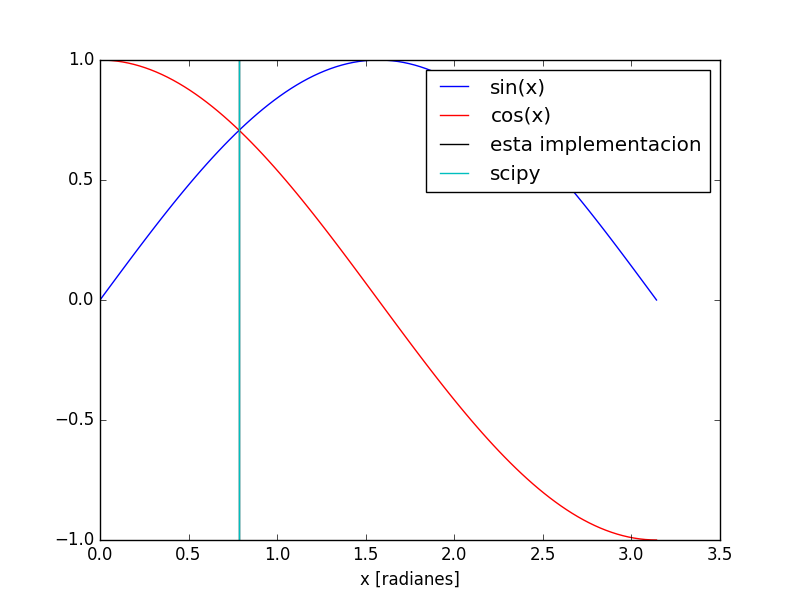
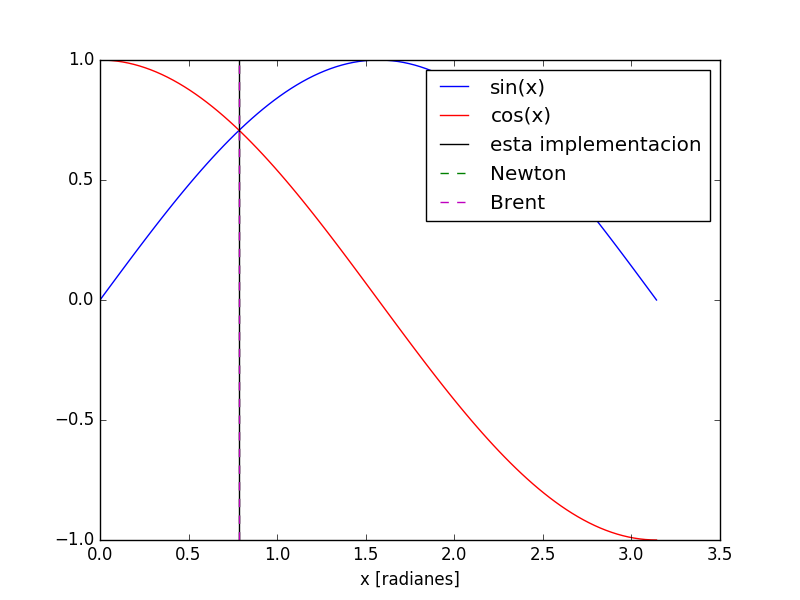
Utiliza metodo de Brent

Changed region(s): [[0.5312, 0.27, 0.9062, 0.39], [0.2812, 0.12, 0.3125, 0.9]]

diff --git a/busca-cero.py b/busca-cero.py
@@ -7,7 +7,7 @@ Este script busca el punto de interseccion entre seno y coseno
 
 import numpy as np
 import matplotlib.pyplot as plt
-from scipy.optimize import bisect, newton
+from scipy.optimize import bisect, newton, brentq
 
 x_values = np.linspace(0, np.pi, 100)
 plt.figure(1)
@@ -53,8 +53,11 @@ plt.axvline(cero_mejor, color='k', label='esta implementacion')
 cero_newton = newton(seno_menos_coseno, 1.5)
 plt.axvline(cero_newton, color='g', ls='--', label='Newton')
 
+# Probando el metodo de Brent
+cero_brent = brentq(seno_menos_coseno, 0, 2.32)
+plt.axvline(cero_brent, color='m', ls='--', label='Brent')
 
 
 plt.legend()
-plt.show()
-#plt.savefig('raiz.png')
+# plt.show()
+plt.savefig('raiz.png')
